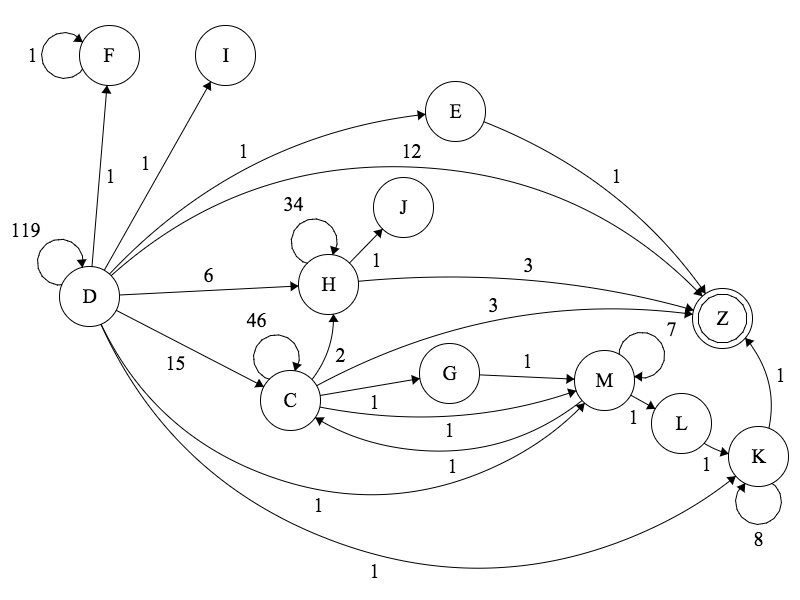
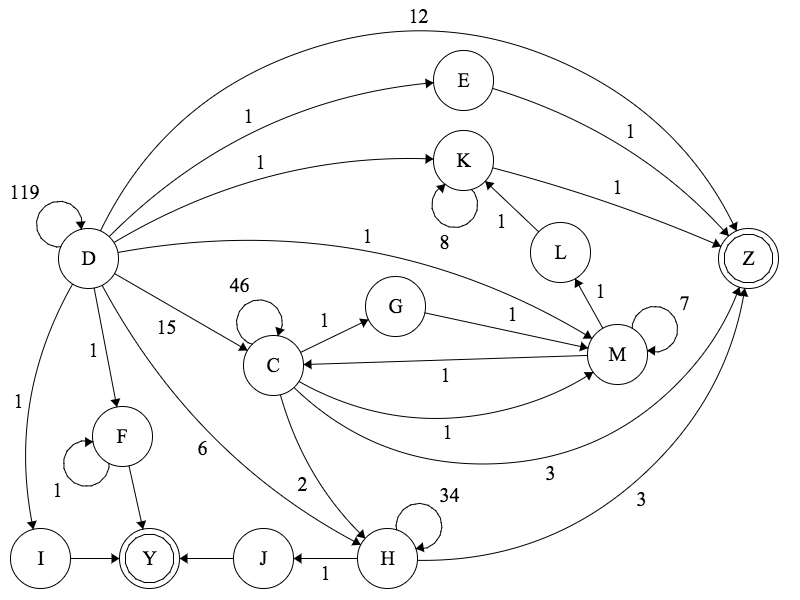
Update transitions with a fail state Y

diff --git a/README.md b/README.md
@@ -43,4 +43,6 @@ To compute a progress to solution metric, we classified each submission to be in
 
 **Q** – Cannot delete from end of a non-singleton list?
 
+**Y** – FAILURE (no students reached solution once they entered this state)
+
 **Z** – SUCCESS
